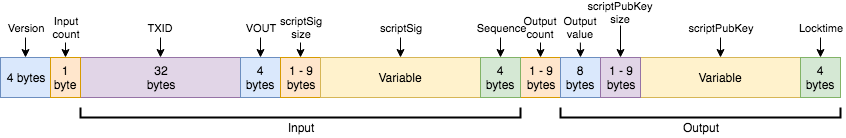
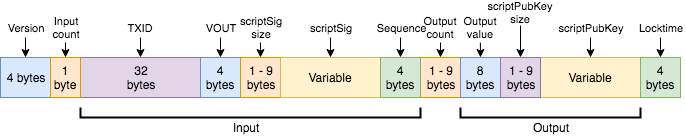
Update Tex file.

diff --git a/Bitcoin_script_language_es.tex b/Bitcoin_script_language_es.tex
@@ -79,13 +79,13 @@ Para profundizar más en detalle sobre la estructura de datos de un bloque de la
     
     \begin{figure}[H]
     \centering
-        \includegraphics[scale=0.67]{img/Bitcoin_transactions_data_schema.png}
+        \includegraphics[scale=0.59]{img/Bitcoin_transactions_data_schema.png}
         \caption{Transacción con un \textit{input} y dos \textit{outputs}.}
     \end{figure}
     
     \begin{figure}[H]
     \centering
-        \includegraphics[scale=0.40]{img/Bitcoin_transactions_data_schema_detailed.png}
+        \includegraphics[scale=0.50]{img/Bitcoin_transactions_data_schema_detailed.png}
         \caption{\textit{Input} y \textit{output} en detalle.}
     \end{figure}
     
